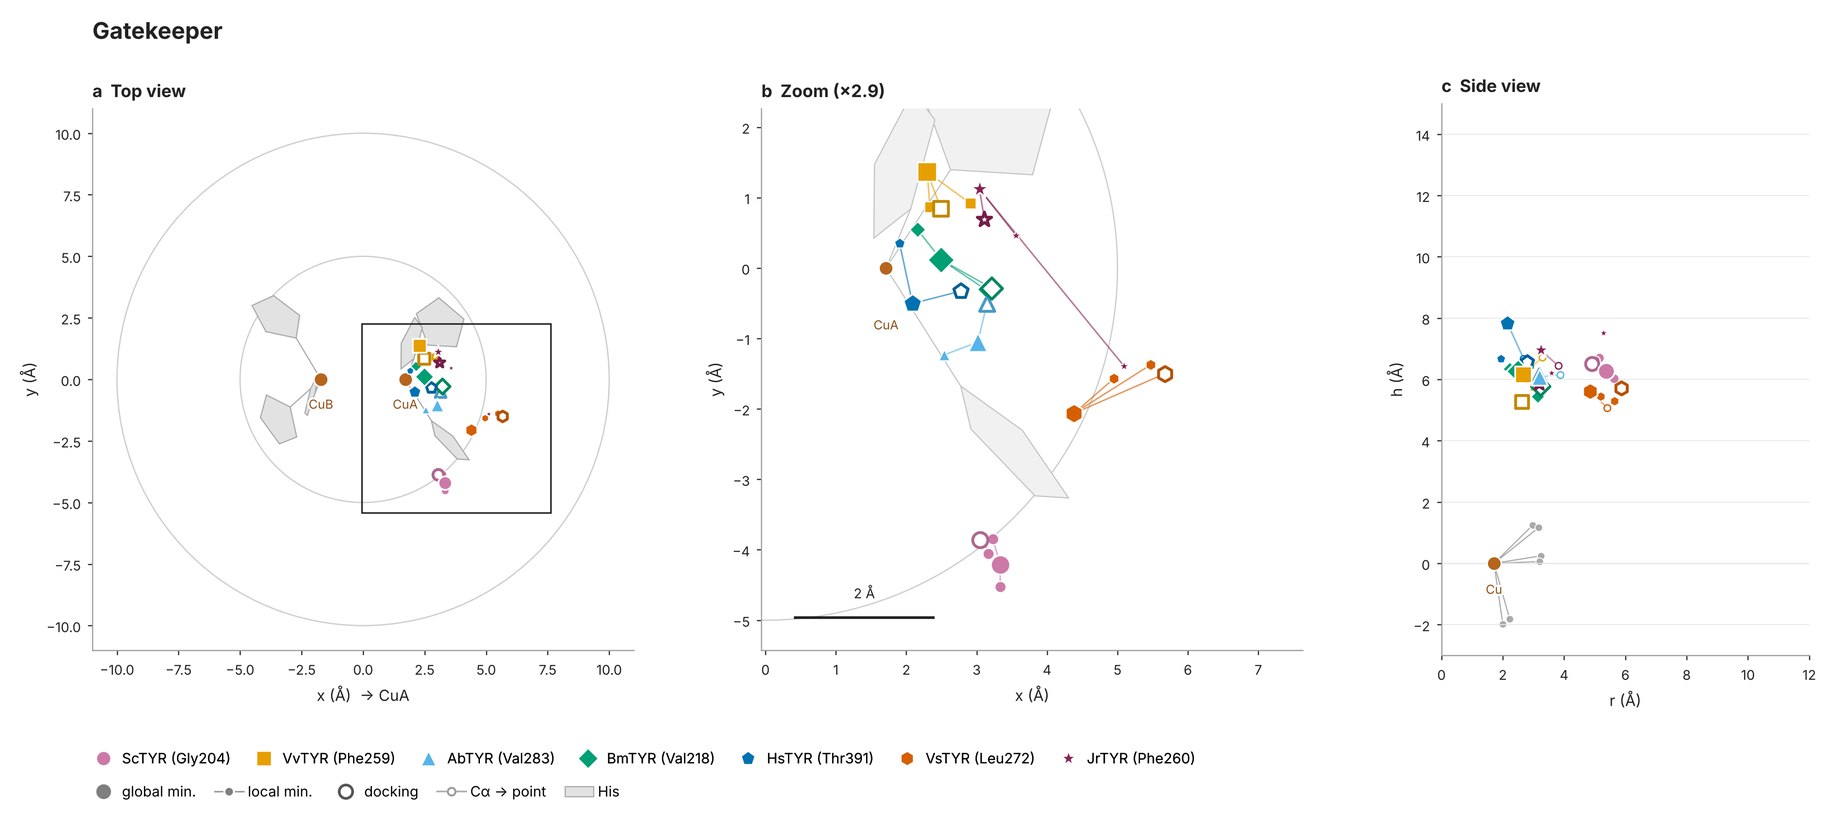
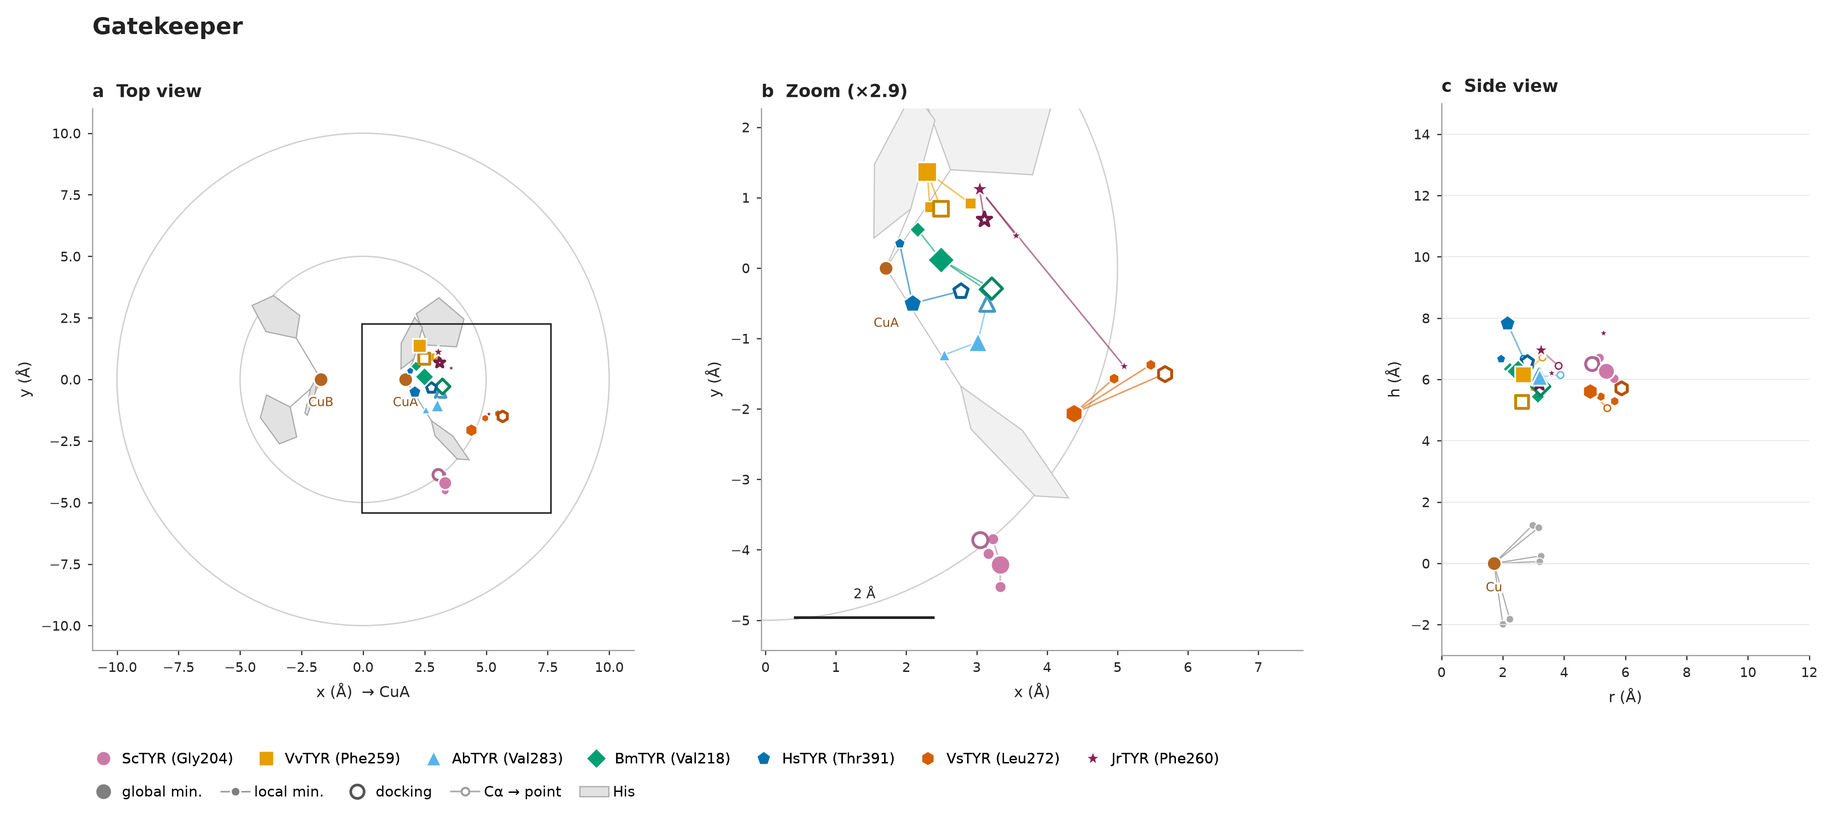
Fix report/figure inconsistencies and regenerate example output
- SUMMARY reports the plotted point of each landmark (plot: SC was ignored)
- phi is NaN for r < r_min_phi in all tables, summaries and figures (as documented)
- F2 static no longer draws phi for points near the axis
- per-landmark figures: side view and top view no longer clip data or the zoom box
- one cylinder cut (seam) shared by static and GaMD figures
- same tail threshold (TAIL_PCT) in percentile_in_trajectory.csv and SUMMARY
- F3 legend no longer says "1 every 1"
- warn when the ligand residue is absent; drop unused site.elements
- stop tracking .idea/ (added .gitignore)

diff --git a/solaris.py b/solaris.py
@@ -119,6 +119,7 @@ TOP_HALF = 11.0
 SIDE_R, SIDE_H = (0.0, 12.0), (-3.0, 15.0)
 R_COLOR = (0.0, 12.0)
 N_POINTS = 400
+TAIL_PCT = 2.5  # a static structure is "in the tail" of its trajectory below this percentile or above 100 - it
 
 
 # ============================================================================ geometry
@@ -457,6 +458,8 @@ class SiteResolver:
     def ligands(self, lcfg):
         amap = {**LIGAND_DEFAULT["atoms"], **lcfg.get("atoms", {})}
         res = self.topo.residues_named(lcfg["resname"])
+        if not res:
+            self.warnings.append(f"no residue named {lcfg['resname']}: no L-Tyr descriptors")
         if len(res) > 1:
             self.warnings.append(f"{len(res)} residues {lcfg['resname']}: using the one closest to the Cu")
         cand = []
@@ -502,7 +505,7 @@ def merged(key, default, *cfgs):
 
 def resolve_site(system, state, topo, sys_cfg, cfg, entry, landmark_defs):
     res = SiteResolver(topo, sys_cfg["roles"], entry)
-    site = SimpleNamespace(elements=topo.elements, offset=res.offset, offset_from=res.offset_from)
+    site = SimpleNamespace(offset=res.offset, offset_from=res.offset_from)
     site.his = res.histidines()
     site.cu_pair = res.coppers()
     site.landmarks = res.landmarks(landmark_defs, sys_cfg.get("tip_atoms", {}), system)
@@ -515,9 +518,10 @@ def resolve_site(system, state, topo, sys_cfg, cfg, entry, landmark_defs):
 
 # ============================================================================ per-frame descriptors
 class FrameAnalyzer:
-    def __init__(self, system, state, kind, category, site):
+    def __init__(self, system, state, kind, category, site, r_min_phi=2.5):
         self.meta = {"system": system, "state": state, "kind": kind, "category": category}
         self.site = site
+        self.r_min_phi = r_min_phi
         self.ready = False
 
     def _prepare(self, X):
@@ -601,9 +605,10 @@ class FrameAnalyzer:
             out["Px.dihedral_CuA_O1_O2_CuB"] = abs(dihedral(cuA, o1, o2, cuB))
         return out
 
-    @staticmethod
-    def _point_row(label, point, plot, resname, resid, c, cuA, cuB):
+    def _point_row(self, label, point, plot, resname, resid, c, cuA, cuB):
         r, phi = cylindrical(c)
+        if r < self.r_min_phi:
+            phi = float("nan")
         return {"landmark": label, "point": point, "plot": plot, "resname": resname, "resid": resid,
                 "x": float(c[0]), "y": float(c[1]), "h": float(c[2]), "r": r, "phi": phi,
                 "dCuA": float(np.linalg.norm(c - cuA)), "dCuB": float(np.linalg.norm(c - cuB))}
@@ -710,7 +715,8 @@ def percentile_in_trajectory(df, desc_cols, key_cols=()):
                     v = float(gs[c].iloc[0])
                     pct = 100.0 * (np.mean(ref < v) + 0.5 * np.mean(ref == v))
                     out.append({"system": sy, "state": st, "trajectory": tst, "descriptor": c, "value": v,
-                                "percentile": pct, "key": c in key_cols, "outside_p5_p95": bool(pct < 5 or pct > 95)})
+                                "percentile": pct, "key": c in key_cols,
+                                "in_tail": bool(pct < TAIL_PCT or pct > 100 - TAIL_PCT)})
     return pd.DataFrame(out)
 
 
@@ -1027,13 +1033,15 @@ def fig_landmark_detail(long_df, landmark, systems, path, dpi, traj=False, n_poi
         x0, x1, y0, y1 = pts["x"].min(), pts["x"].max(), pts["y"].min(), pts["y"].max()
     cx, cy = (x0 + x1) / 2, (y0 + y1) / 2
     half = max(max(x1 - x0, y1 - y0) / 2 + 0.9, 1.6)
+    # the top view must contain the zoom box, otherwise the box (and points) are clipped
+    lim = max(TOP_HALF, abs(cx) + half, abs(cy) + half)
 
     W, H = 13.4, 5.9
     fig = plt.figure(figsize=(W, H))
     gs = fig.add_gridspec(1, 3, width_ratios=[1.0, 1.0, 0.72], left=0.05, right=0.985, bottom=1.15 / H,
                           top=1 - 0.75 / H, wspace=0.26)
     a0, a1, a2 = (fig.add_subplot(gs[0, i]) for i in range(3))
-    views = ((a0, (-TOP_HALF, TOP_HALF, -TOP_HALF, TOP_HALF), False, 110, 0.5),
+    views = ((a0, (-lim, lim, -lim, lim), False, 110, 0.5),
              (a1, (cx - half, cx + half, cy - half, cy + half), True, 70, 1.0))
     busy = [tuple(p[:2]) for p in TEMPLATE]
     for ax, (lx0, lx1, ly0, ly1), light, nbins, size in views:
@@ -1059,7 +1067,7 @@ def fig_landmark_detail(long_df, landmark, systems, path, dpi, traj=False, n_poi
     a0.set_xlabel("x (Å)  → CuA", fontsize=8, color=INK)
     a1.set_xlabel("x (Å)", fontsize=8, color=INK)
     a0.set_title("a  Top view", fontsize=9, loc="left", color=INK, fontweight="bold")
-    a1.set_title(f"b  Zoom (×{TOP_HALF / half:.1f})", fontsize=9, loc="left", color=INK, fontweight="bold")
+    a1.set_title(f"b  Zoom (×{lim / half:.1f})", fontsize=9, loc="left", color=INK, fontweight="bold")
     scale_bar(a1, cx, cy, half, busy)
 
     a2.axhline(0, color=GRID, lw=0.6, zorder=0)
@@ -1074,8 +1082,11 @@ def fig_landmark_detail(long_df, landmark, systems, path, dpi, traj=False, n_poi
     else:
         draw_ca_sticks(a2, long_df, landmark, here, systems)
         draw_states(a2, pts, "r", "h", systems, size=0.75, links=False)
-    a2.set_xlim(*SIDE_R)
-    a2.set_ylim(*SIDE_H)
+    is_lig = landmark.startswith("L-Tyr")
+    side = long_df[long_df["system"].isin(here)
+                   & (long_df["landmark"].isin(LIG_LANDMARKS) if is_lig else (long_df["landmark"] == landmark))]
+    a2.set_xlim(SIDE_R[0], max(SIDE_R[1], float(np.nanmax(side["r"])) + 0.8))
+    a2.set_ylim(min(SIDE_H[0], float(np.nanmin(side["h"])) - 0.8), max(SIDE_H[1], float(np.nanmax(side["h"])) + 0.8))
     a2.set_aspect("equal")
     a2.set_xlabel("r (Å)", fontsize=8, color=INK)
     a2.set_ylabel("h (Å)", fontsize=8, color=INK)
@@ -1208,7 +1219,8 @@ def fig_landmark_summary(long_df, landmark_order, path, dpi, r_min, seam=None, t
     plt.close(fig)
 
 
-def fig_unrolled_cylinder(long_df, landmark_order, path, dpi, r_min, traj=False, n_points=N_POINTS, r_color=R_COLOR):
+def fig_unrolled_cylinder(long_df, landmark_order, path, dpi, r_min, traj=False, n_points=N_POINTS, r_color=R_COLOR,
+                          seam=None):
     """phi vs h for every pocket landmark; marker = enzyme, colour = r."""
     d = long_df[long_df["plot"]]
     panels = [p for p in panels_for(d, landmark_order) if not p.startswith("L-Tyr")]
@@ -1218,8 +1230,8 @@ def fig_unrolled_cylinder(long_df, landmark_order, path, dpi, r_min, traj=False,
     dd = d[d["landmark"].isin(panels)]
     if traj:
         dd = thin_frames(dd, n_points)
-    phis = dd.loc[dd["r"] >= r_min, "phi"].to_numpy(float)
-    seam = auto_seam(np.round(phis) % 360 if traj else phis)
+    if seam is None:
+        seam = auto_seam(dd.loc[dd["r"] >= r_min, "phi"].dropna())
     norm = Normalize(*r_color)
     ncol = min(3, len(panels))
     nrow = math.ceil(len(panels) / ncol)
@@ -1231,14 +1243,12 @@ def fig_unrolled_cylinder(long_df, landmark_order, path, dpi, r_min, traj=False,
                 ax.scatter(unwrap(g["phi"], seam), g["h"], c=g["r"], cmap="viridis", norm=norm, s=16,
                            marker=marker_for(sy, systems), alpha=0.7, linewidths=0, zorder=3, rasterized=True)
                 continue
+            g = g[g["r"] >= r_min]
+            if g.empty:
+                continue
             sty = state_style(g["category"].iloc[0])
-            xs = unwrap(g["phi"], seam)
-            ax.scatter(xs, g["h"], c=g["r"], cmap="viridis", norm=norm, s=85, marker=marker_for(sy, systems),
-                       edgecolors=sty["edge"], linewidths=sty["lw"], zorder=4)
-            low = g["r"] < r_min
-            if low.any():
-                ax.scatter(xs[low.to_numpy()], g["h"][low], s=230, facecolors="none", edgecolors="0.45",
-                           linewidths=0.8, zorder=3)
+            ax.scatter(unwrap(g["phi"], seam), g["h"], c=g["r"], cmap="viridis", norm=norm, s=85,
+                       marker=marker_for(sy, systems), edgecolors=sty["edge"], linewidths=sty["lw"], zorder=4)
         ax.axhline(0, lw=0.6, color="0.7")
         for nm, ang in (("CuA", 0.0), ("CuB", 180.0)):
             xv = float(unwrap(ang, seam))
@@ -1269,8 +1279,7 @@ def fig_unrolled_cylinder(long_df, landmark_order, path, dpi, r_min, traj=False,
         family_legend(fig, systems, set(), extra)
         fig.suptitle("Unrolled cylinder · GaMD", fontsize=11, fontweight="bold", y=0.98)
     else:
-        extra = [Line2D([0], [0], marker="o", ls="None", ms=12, mfc="none", mec="0.45", mew=0.8,
-                        label=f"r < {r_min:g} Å (φ unreliable)")] if has_low else []
+        extra = [Line2D([], [], ls="None", label=f"r < {r_min:g} Å not shown (φ undefined)")] if has_low else []
         family_legend(fig, systems, set(d["category"]), extra)
     fig.savefig(path, dpi=dpi, bbox_inches="tight")
     plt.close(fig)
@@ -1318,9 +1327,10 @@ def fig_traj_enzyme(system, long_df, landmark_order, path, dpi, systems, n_point
     axes[0, 0].set_ylabel("y (Å)", fontsize=8)
     axes[1, 0].set_ylabel("h (Å)", fontsize=8)
     cats = set(d.loc[d["kind"] != "trajectory", "category"])
+    step = frame_step(traj, n_points)
     h = [Patch(color=TRAJ_BLUES[1], label="GaMD 50 %"), Patch(color=TRAJ_BLUES[0], label="GaMD 90 %"),
          Line2D([0], [0], marker=mk, ls="None", ms=4, mfc=col, mec="none", alpha=0.6,
-                label=f"GaMD frame (1 every {frame_step(traj, n_points)})"),
+                label=f"GaMD frame (1 every {step})" if step > 1 else "GaMD frame"),
          Line2D([0], [0], marker=mk, ls="None", ms=8, mfc=col, mec="white", label="median")]
     h += [Line2D([0], [0], marker=mk, ls="None", ms=8, mfc=state_style(c)["fill"], mec="black", label=STATE_LABEL[c])
           for c in ("global", "local", "docking") if c in cats]
@@ -1336,16 +1346,20 @@ def make_figures(out, cfg, df, long_df, landmark_order, dpi, r_min_phi):
     figdir.mkdir(parents=True, exist_ok=True)
     n_pts = int(cfg.get("points_per_trajectory", N_POINTS))
     r_color = tuple(cfg.get("r_color", R_COLOR))
+    # one cut of the cylinder for static and GaMD figures, so that they can be compared
     seam = None
+    if not long_df.empty:
+        pocket = long_df[long_df["plot"] & ~long_df["landmark"].str.startswith("L-Tyr") & (long_df["r"] >= r_min_phi)]
+        if not pocket.empty:
+            seam = auto_seam(pocket["phi"].dropna())
     for kind, sfx in (("structure", ""), ("trajectory", "_GaMD")):
         part = long_df[long_df["kind"] == kind] if not long_df.empty else long_df
         if part.empty:
             continue
         traj = kind == "trajectory"
-        s_ = fig_unrolled_cylinder(part, landmark_order, figdir / f"F2_unrolled_cylinder{sfx}.png", dpi, r_min_phi,
-                                   traj=traj, n_points=n_pts, r_color=r_color)
-        seam = seam if traj and seam is not None else s_
-        fig_landmark_summary(part, landmark_order, figdir / f"F1_landmark_summary{sfx}.png", dpi, r_min_phi, s_,
+        fig_unrolled_cylinder(part, landmark_order, figdir / f"F2_unrolled_cylinder{sfx}.png", dpi, r_min_phi,
+                              traj=traj, n_points=n_pts, r_color=r_color, seam=seam)
+        fig_landmark_summary(part, landmark_order, figdir / f"F1_landmark_summary{sfx}.png", dpi, r_min_phi, seam,
                              traj=traj, n_points=n_pts)
         lm_dir = figdir / f"F1_per_landmark{sfx}"
         lm_dir.mkdir(exist_ok=True)
@@ -1384,7 +1398,7 @@ def fmt_cell(v):
     return f"{np.median(v):.2f} [{np.percentile(v, 10):.2f}–{np.percentile(v, 90):.2f}]"
 
 
-def write_report(path, df, qc, skipped, warnings, seam, pct, landmark_order):
+def write_report(path, df, qc, skipped, warnings, seam, pct, landmark_defs):
     L = ["# SOLARIS summary\n",
          "- Frame: Kabsch fit of the core (2 Cu + 6 His rings) onto the family template; z = pseudo-C2 axis",
          f"- States: {df.groupby(['system', 'state']).ngroups}; structures/frames: {len(df)}"]
@@ -1411,16 +1425,19 @@ def write_report(path, df, qc, skipped, warnings, seam, pct, landmark_order):
     L.append("\n## Landmarks (plotted point): h / r / φ\n")
     for (sy, st), g in df.groupby(["system", "state"], sort=False):
         parts = []
-        for lab in landmark_order:
-            pt = next((p for p in ("TIP", "SC", "CA") if f"{lab}.{p}.h" in g and g[f"{lab}.{p}.h"].notna().any()), None)
-            if pt:
-                phi = circ_stats(g[f"{lab}.{pt}.phi"].dropna())[0]
-                parts.append(f"{lab} {g[f'{lab}.{pt}.h'].median():.1f}/{g[f'{lab}.{pt}.r'].median():.1f}/{phi:.0f}°")
+        for lab, ld in landmark_defs.items():
+            pt = ld.get("plot", "TIP")
+            if f"{lab}.{pt}.h" not in g or g[f"{lab}.{pt}.h"].isna().all():
+                continue
+            phi = g[f"{lab}.{pt}.phi"].dropna()
+            phi_s = f"{circ_stats(phi)[0]:.0f}°" if len(phi) else "—"
+            parts.append(f"{lab} {g[f'{lab}.{pt}.h'].median():.1f}/{g[f'{lab}.{pt}.r'].median():.1f}/{phi_s}")
         if parts:
             L.append(f"- {sy} / {st}: " + "; ".join(parts))
     if pct is not None and not pct.empty:
-        tail = pct[pct["key"] & ((pct["percentile"] < 2.5) | (pct["percentile"] > 97.5))]
-        L.append("\n## Static structures in the tails of their trajectory (key descriptors, percentile < 2.5 or > 97.5)\n")
+        tail = pct[pct["key"] & pct["in_tail"]]
+        L.append(f"\n## Static structures in the tails of their trajectory (key descriptors, percentile < {TAIL_PCT:g} "
+                 f"or > {100 - TAIL_PCT:g})\n")
         if tail.empty:
             L.append("- None: minima and docking poses fall within what the trajectory samples.")
         for (sy, st), g in tail.groupby(["system", "state"], sort=False):
@@ -1568,7 +1585,7 @@ def main():
         stride = int(entry.get("stride", 10 if kind == "trajectory" else 1))
         stop = entry.get("stop")
         print(f"[RUN] {system}/{state} ({kind}{f', stride {stride}' if kind == 'trajectory' else ''})")
-        r, lr = FrameAnalyzer(system, state, kind, cat, site).run(
+        r, lr = FrameAnalyzer(system, state, kind, cat, site, r_min_phi).run(
             src, int(entry.get("start", 0)), None if stop is None else int(stop), stride)
         rows += r
         long_rows += lr
@@ -1588,7 +1605,7 @@ def main():
         pct.to_csv(tdir / "percentile_in_trajectory.csv", index=False, float_format="%.3f")
 
     seam = make_figures(out, cfg, df, long_df, landmark_order, dpi, r_min_phi)
-    write_report(out / "SUMMARY.md", df, qc, skipped, warns, seam, pct if not pct.empty else None, landmark_order)
+    write_report(out / "SUMMARY.md", df, qc, skipped, warns, seam, pct if not pct.empty else None, landmark_defs)
     print(f"\nDone.\nTables:  {tdir}\nFigures: {out / 'figures'}\nSummary: {out / 'SUMMARY.md'}")
     if skipped:
         print(f"Skipped states: {len(skipped)} (see SUMMARY.md)")

diff --git a/examples/output_static/SUMMARY.md b/examples/output_static/SUMMARY.md
@@ -11,7 +11,13 @@
 
 ## Warnings
 
+- ScTYR (docking): no residue named TY1: no L-Tyr descriptors
+- VvTYR (docking): no residue named TY1: no L-Tyr descriptors
+- AbTYR (docking): no residue named TY1: no L-Tyr descriptors
+- BmTYR (docking): no residue named TY1: no L-Tyr descriptors
 - HsTYR (docking): HisB3: resid 404 appears 2 times [('X', 'HIS'), ('X', 'PER')]; using HIS404
+- HsTYR (docking): no residue named TY1: no L-Tyr descriptors
+- VsTYR (docking): no residue named TY1: no L-Tyr descriptors
 
 ## Numbering and residues used
 
@@ -79,30 +85,30 @@ Trajectories: median [p10–p90]. Distances in Å, angles in degrees.
 
 ## Landmarks (plotted point): h / r / φ
 
-- ScTYR / global: Conserved_Glu 1.9/7.5/94°; Conserved_Asn 4.7/5.4/131°; Carboxylate_anchor 8.3/10.8/66°; Gatekeeper 6.3/5.4/308°; A/S_adj 3.1/4.4/276°
-- ScTYR / local1: Conserved_Glu 1.8/7.6/90°; Conserved_Asn 5.0/6.1/131°; Carboxylate_anchor 9.0/7.7/74°; Gatekeeper 6.7/5.1/308°; A/S_adj 3.6/4.3/275°
-- ScTYR / local2: Conserved_Glu 1.1/7.5/94°; Conserved_Asn 4.4/6.4/127°; Carboxylate_anchor 8.3/11.0/64°; Gatekeeper 6.0/5.6/306°; A/S_adj 2.9/4.6/277°
-- ScTYR / local3: Conserved_Glu 1.3/7.6/92°; Conserved_Asn 4.9/6.1/128°; Carboxylate_anchor 8.6/11.7/66°; Gatekeeper 6.6/5.0/310°; A/S_adj 3.5/4.5/273°
-- ScTYR / docking: Conserved_Glu 1.4/7.4/93°; Conserved_Asn 4.7/6.2/133°; Carboxylate_anchor 8.7/7.4/70°; Gatekeeper 6.5/4.9/308°; A/S_adj 2.2/4.3/272°
-- VvTYR / global: Conserved_Glu 1.0/7.4/92°; Conserved_Asn 4.6/6.3/125°; Carboxylate_anchor 13.5/5.2/162°; Gatekeeper 6.0/2.7/39°; A/S_adj 3.8/4.5/273°
-- VvTYR / local1: Conserved_Glu 1.2/7.1/89°; Conserved_Asn 4.5/6.1/123°; Carboxylate_anchor 13.4/5.5/178°; Gatekeeper 6.1/2.5/30°; A/S_adj 3.5/4.8/270°
-- VvTYR / local2: Conserved_Glu 0.9/7.3/91°; Conserved_Asn 4.5/6.0/122°; Carboxylate_anchor 12.6/4.2/170°; Gatekeeper 5.7/3.0/25°; A/S_adj 3.8/4.7/272°
-- VvTYR / docking: Conserved_Glu 1.6/7.2/90°; Conserved_Asn 4.7/5.8/129°; Carboxylate_anchor 13.2/9.5/176°; Gatekeeper 5.2/2.6/28°; A/S_adj 3.1/5.5/267°
-- AbTYR / global: Conserved_Glu 2.7/7.3/93°; Conserved_Asn 5.1/5.5/128°; Carboxylate_anchor 12.3/7.6/183°; Gatekeeper 6.1/3.2/341°; A/S_adj 2.6/5.4/278°; HisB2+1_Phe264 9.6/5.5/186°
-- AbTYR / local1: Conserved_Glu 2.5/7.5/92°; Conserved_Asn 4.8/5.7/126°; Carboxylate_anchor 12.8/6.4/187°; Gatekeeper 6.2/2.8/334°; A/S_adj 2.5/5.5/266°; HisB2+1_Phe264 9.5/5.8/179°
-- AbTYR / docking: Conserved_Glu 1.8/7.2/88°; Conserved_Asn 4.8/6.0/124°; Carboxylate_anchor 12.9/5.7/175°; Gatekeeper 6.1/3.2/351°; A/S_adj 3.2/5.0/269°; HisB2+1_Phe264 9.3/5.7/176°
-- BmTYR / global: Conserved_Glu 1.2/7.7/94°; Conserved_Asn 4.4/6.5/128°; Carboxylate_anchor 11.3/6.7/151°; Gatekeeper 6.3/2.5/3°; A/S_adj 3.3/4.6/278°
-- BmTYR / local1: Conserved_Glu 1.0/7.8/93°; Conserved_Asn 4.5/7.2/127°; Carboxylate_anchor 11.7/7.5/149°; Gatekeeper 6.3/2.2/14°; A/S_adj 3.7/4.4/270°
+- ScTYR / global: Conserved_Glu 1.9/7.5/94°; Conserved_Asn 4.7/5.4/131°; Carboxylate_anchor 8.3/10.8/66°; Gatekeeper 6.3/5.4/308°; A/S_adj 2.7/4.8/272°
+- ScTYR / local1: Conserved_Glu 1.8/7.6/90°; Conserved_Asn 5.0/6.1/131°; Carboxylate_anchor 9.0/7.7/74°; Gatekeeper 6.7/5.1/308°; A/S_adj 3.1/4.7/272°
+- ScTYR / local2: Conserved_Glu 1.1/7.5/94°; Conserved_Asn 4.4/6.4/127°; Carboxylate_anchor 8.3/11.0/64°; Gatekeeper 6.0/5.6/306°; A/S_adj 2.6/5.2/274°
+- ScTYR / local3: Conserved_Glu 1.3/7.6/92°; Conserved_Asn 4.9/6.1/128°; Carboxylate_anchor 8.6/11.7/66°; Gatekeeper 6.6/5.0/310°; A/S_adj 3.1/5.0/270°
+- ScTYR / docking: Conserved_Glu 1.4/7.4/93°; Conserved_Asn 4.7/6.2/133°; Carboxylate_anchor 8.7/7.4/70°; Gatekeeper 6.5/4.9/308°; A/S_adj 2.5/4.8/267°
+- VvTYR / global: Conserved_Glu 1.0/7.4/92°; Conserved_Asn 4.6/6.3/125°; Carboxylate_anchor 13.5/5.2/162°; Gatekeeper 6.2/2.7/31°; A/S_adj 3.8/4.5/273°
+- VvTYR / local1: Conserved_Glu 1.2/7.1/89°; Conserved_Asn 4.5/6.1/123°; Carboxylate_anchor 13.4/5.5/178°; Gatekeeper 6.2/2.5/—; A/S_adj 3.5/4.8/270°
+- VvTYR / local2: Conserved_Glu 0.9/7.3/91°; Conserved_Asn 4.5/6.0/122°; Carboxylate_anchor 12.6/4.2/170°; Gatekeeper 5.8/3.1/17°; A/S_adj 3.8/4.7/272°
+- VvTYR / docking: Conserved_Glu 1.6/7.2/90°; Conserved_Asn 4.7/5.8/129°; Carboxylate_anchor 13.2/9.5/176°; Gatekeeper 5.3/2.6/19°; A/S_adj 3.1/5.5/267°
+- AbTYR / global: Conserved_Glu 2.7/7.3/93°; Conserved_Asn 5.1/5.5/128°; Carboxylate_anchor 12.3/7.6/183°; Gatekeeper 6.1/3.2/341°; A/S_adj 2.6/5.4/278°; HisB2+1_Phe264 9.5/5.9/187°
+- AbTYR / local1: Conserved_Glu 2.5/7.5/92°; Conserved_Asn 4.8/5.7/126°; Carboxylate_anchor 12.8/6.4/187°; Gatekeeper 6.2/2.8/334°; A/S_adj 2.5/5.5/266°; HisB2+1_Phe264 9.3/6.2/181°
+- AbTYR / docking: Conserved_Glu 1.8/7.2/88°; Conserved_Asn 4.8/6.0/124°; Carboxylate_anchor 12.9/5.7/175°; Gatekeeper 6.1/3.2/351°; A/S_adj 3.2/5.0/269°; HisB2+1_Phe264 9.2/6.0/178°
+- BmTYR / global: Conserved_Glu 1.2/7.7/94°; Conserved_Asn 4.4/6.5/128°; Carboxylate_anchor 11.3/6.7/151°; Gatekeeper 6.3/2.5/—; A/S_adj 3.3/4.6/278°
+- BmTYR / local1: Conserved_Glu 1.0/7.8/93°; Conserved_Asn 4.5/7.2/127°; Carboxylate_anchor 11.7/7.5/149°; Gatekeeper 6.3/2.2/—; A/S_adj 3.7/4.4/270°
 - BmTYR / local2: Conserved_Glu 0.9/7.5/92°; Conserved_Asn 4.4/6.5/126°; Carboxylate_anchor 12.8/6.1/174°; Gatekeeper 5.4/3.1/354°; A/S_adj 3.2/4.6/271°
 - BmTYR / docking: Conserved_Glu 1.3/7.5/92°; Conserved_Asn 4.7/6.4/130°; Carboxylate_anchor 11.6/5.6/197°; Gatekeeper 5.8/3.2/355°; A/S_adj 3.2/4.9/270°
-- HsTYR / global: Conserved_Glu 1.6/7.5/94°; Conserved_Asn 4.4/7.0/132°; Carboxylate_anchor 10.1/8.9/127°; Gatekeeper 7.8/2.1/346°; A/S_adj 2.9/4.0/277°
-- HsTYR / local1: Conserved_Glu 1.2/7.9/93°; Conserved_Asn 4.4/6.7/127°; Carboxylate_anchor 10.0/9.4/118°; Gatekeeper 6.7/1.9/10°; A/S_adj 3.1/4.1/267°
-- HsTYR / docking: Conserved_Glu 1.4/7.7/90°; Conserved_Asn 4.7/6.3/129°; Carboxylate_anchor 10.6/8.5/120°; Gatekeeper 6.6/2.8/353°; A/S_adj 2.5/4.1/275°
-- VsTYR / global: Conserved_Glu 1.7/7.3/93°; Conserved_Asn 5.0/6.1/124°; Carboxylate_anchor 9.3/5.9/184°; Gatekeeper 5.7/4.6/340°; A/S_adj 2.3/4.6/268°
-- VsTYR / local1: Conserved_Glu 1.3/7.5/96°; Conserved_Asn 4.9/6.5/130°; Carboxylate_anchor 8.6/5.1/174°; Gatekeeper 5.2/5.6/351°; A/S_adj 2.3/4.9/277°
-- VsTYR / local2: Conserved_Glu 1.3/7.4/92°; Conserved_Asn 4.8/6.0/124°; Carboxylate_anchor 10.5/7.4/184°; Gatekeeper 5.4/5.1/348°; A/S_adj 2.2/4.5/276°
-- VsTYR / docking: Conserved_Glu 1.2/7.6/91°; Conserved_Asn 4.5/6.2/122°; Carboxylate_anchor 9.1/4.8/171°; Gatekeeper 5.8/5.8/350°; A/S_adj 2.3/4.2/278°
-- JrTYR / global: Conserved_Glu 0.9/6.9/93°; Conserved_Asn 4.4/5.8/128°; Carboxylate_anchor 9.9/6.2/175°; Gatekeeper 7.0/3.3/28°; A/S_adj 3.8/4.7/277°
-- JrTYR / local1: Conserved_Glu 1.5/7.6/94°; Conserved_Asn 4.3/6.2/129°; Carboxylate_anchor 9.3/6.6/174°; Gatekeeper 7.8/5.5/346°; A/S_adj 3.7/5.1/265°
-- JrTYR / local2: Conserved_Glu 1.7/7.2/91°; Conserved_Asn 4.5/5.8/127°; Carboxylate_anchor 10.5/7.3/182°; Gatekeeper 6.2/3.6/14°; A/S_adj 2.8/4.9/273°
-- JrTYR / docking: Conserved_Glu 1.0/7.5/87°; Conserved_Asn 4.9/5.6/125°; Carboxylate_anchor 9.6/6.0/181°; Gatekeeper 5.9/3.2/20°; A/S_adj 2.9/5.4/269°
+- HsTYR / global: Conserved_Glu 1.6/7.5/94°; Conserved_Asn 4.4/7.0/132°; Carboxylate_anchor 10.1/8.9/127°; Gatekeeper 7.8/2.1/—; A/S_adj 3.1/4.5/269°
+- HsTYR / local1: Conserved_Glu 1.2/7.9/93°; Conserved_Asn 4.4/6.7/127°; Carboxylate_anchor 10.0/9.4/118°; Gatekeeper 6.7/1.9/—; A/S_adj 3.3/4.7/262°
+- HsTYR / docking: Conserved_Glu 1.4/7.7/90°; Conserved_Asn 4.7/6.3/129°; Carboxylate_anchor 10.6/8.5/120°; Gatekeeper 6.6/2.8/353°; A/S_adj 2.9/4.5/270°
+- VsTYR / global: Conserved_Glu 1.7/7.3/93°; Conserved_Asn 5.0/6.1/124°; Carboxylate_anchor 9.3/5.9/184°; Gatekeeper 5.6/4.8/335°; A/S_adj 2.4/5.2/265°
+- VsTYR / local1: Conserved_Glu 1.3/7.5/96°; Conserved_Asn 4.9/6.5/130°; Carboxylate_anchor 8.6/5.1/174°; Gatekeeper 5.3/5.6/346°; A/S_adj 2.6/5.3/272°
+- VsTYR / local2: Conserved_Glu 1.3/7.4/92°; Conserved_Asn 4.8/6.0/124°; Carboxylate_anchor 10.5/7.4/184°; Gatekeeper 5.4/5.2/342°; A/S_adj 2.3/4.9/269°
+- VsTYR / docking: Conserved_Glu 1.2/7.6/91°; Conserved_Asn 4.5/6.2/122°; Carboxylate_anchor 9.1/4.8/171°; Gatekeeper 5.7/5.9/345°; A/S_adj 2.6/4.7/272°
+- JrTYR / global: Conserved_Glu 0.9/6.9/93°; Conserved_Asn 4.4/5.8/128°; Carboxylate_anchor 9.9/6.2/175°; Gatekeeper 7.0/3.2/20°; A/S_adj 3.8/4.7/277°
+- JrTYR / local1: Conserved_Glu 1.5/7.6/94°; Conserved_Asn 4.3/6.2/129°; Carboxylate_anchor 9.3/6.6/174°; Gatekeeper 7.5/5.3/345°; A/S_adj 3.7/5.1/265°
+- JrTYR / local2: Conserved_Glu 1.7/7.2/91°; Conserved_Asn 4.5/5.8/127°; Carboxylate_anchor 10.5/7.3/182°; Gatekeeper 6.2/3.6/7°; A/S_adj 2.8/4.9/273°
+- JrTYR / docking: Conserved_Glu 1.0/7.5/87°; Conserved_Asn 4.9/5.6/125°; Carboxylate_anchor 9.6/6.0/181°; Gatekeeper 5.9/3.2/13°; A/S_adj 2.9/5.4/269°
